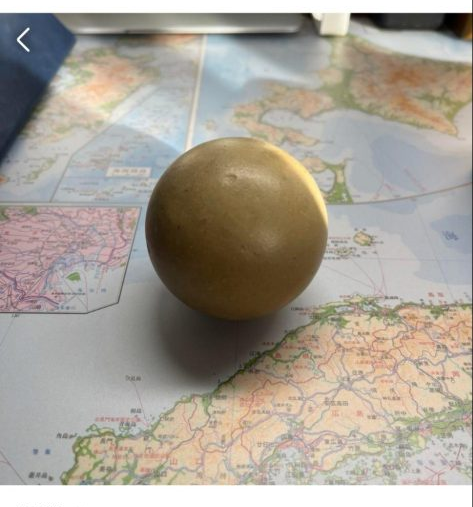
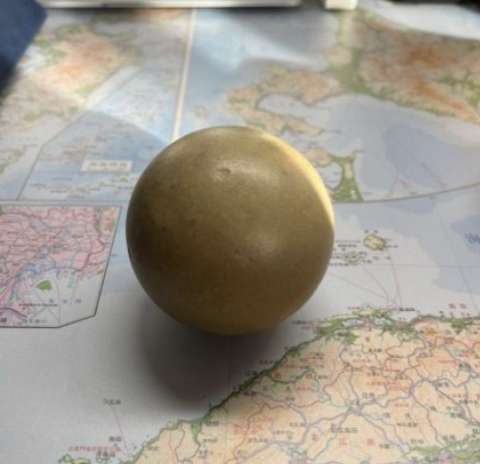
feat: 商品画面を実機メルカリUIに刷新
写真エリア（角丸＋余白・ズーム/枚数オーバーレイ・上部ヘッダーの戻る/メニュー）、
いいね/コメントの丸背景、値下げ依頼ピル、メルカード還元行、AIおまかせ交渉CTA、
翌月払い/購入への透明フローティングバー、iOSリキッドグラス風のボトムナビへ刷新。
出品アイコンは他のナビと同じフラット表示に統一し、商品画像も差し替え。

diff --git a/components/screens/ProductScreen.tsx b/components/screens/ProductScreen.tsx
@@ -1,87 +1,139 @@
 import Image from "next/image";
 import { StatusBar, BottomNav } from "../PhoneChrome";
-import { RobotIcon, Chevron } from "../icons";
+import { RobotIcon } from "../icons";
 
 interface Props {
   unread: number;
   onOpenBattle: () => void;
+  onOpenSearch: () => void;
   onBell: () => void;
   onMypage: () => void;
 }
 
-export function ProductScreen({ unread, onOpenBattle, onBell, onMypage }: Props) {
+export function ProductScreen({ unread, onOpenBattle, onOpenSearch, onBell, onMypage }: Props) {
   return (
     <div className="screen">
       <div className="content">
         <StatusBar />
 
-        <div className="photo-wrap">
-          <div className="back-btn">
+        <div className="pw-header">
+          <div className="pw-btn back" onClick={onOpenSearch}>
             <svg width="18" height="18" viewBox="0 0 24 24" fill="none">
               <path d="M15 5l-7 7 7 7" stroke="#222" strokeWidth="2.2" strokeLinecap="round" strokeLinejoin="round" />
             </svg>
           </div>
-          <Image src="/dorodango.png" alt="泥だんご" width={473} height={507} priority />
+          <div className="pw-btn menu">
+            <svg width="18" height="18" viewBox="0 0 24 24" fill="#222">
+              <circle cx="12" cy="5" r="1.9" />
+              <circle cx="12" cy="12" r="1.9" />
+              <circle cx="12" cy="19" r="1.9" />
+            </svg>
+          </div>
+        </div>
+
+        <div className="photo-wrap">
+          <div className="photo-inner">
+            <Image src="/dorodango.png" alt="泥だんご" width={473} height={507} priority />
+            <div className="pw-zoom">
+              <svg width="18" height="18" viewBox="0 0 24 24" fill="none">
+                <circle cx="10.5" cy="10.5" r="6.5" stroke="#fff" strokeWidth="1.8" />
+                <path d="M15.5 15.5L20 20" stroke="#fff" strokeWidth="1.8" strokeLinecap="round" />
+              </svg>
+            </div>
+            <div className="pw-count">
+              <svg width="12" height="12" viewBox="0 0 24 24" fill="#fff">
+                <rect x="3" y="3" width="7" height="7" rx="1.5" />
+                <rect x="14" y="3" width="7" height="7" rx="1.5" />
+                <rect x="3" y="14" width="7" height="7" rx="1.5" />
+                <rect x="14" y="14" width="7" height="7" rx="1.5" />
+              </svg>
+              1 / 7
+            </div>
+          </div>
         </div>
 
         <div className="info">
+          <div className="react-row">
+            <div className="react-item">
+              <span className="react-ic">
+                <svg width="20" height="20" viewBox="0 0 24 24" fill="none">
+                  <path
+                    d="M12 20s-7-4.4-9.5-9C.8 7.2 2.6 4 6 4c2 0 3.5 1.1 4.3 2.4 0 0 .5.9.7 1.3.2-.4.7-1.3.7-1.3C12.5 5.1 14 4 16 4c3.4 0 5.2 3.2 3.5 7-2.5 4.6-9.5 9-9.5 9z"
+                    stroke="#767676"
+                    strokeWidth="1.6"
+                  />
+                </svg>
+              </span>
+              <span className="react-n">1</span>
+            </div>
+            <div className="react-item">
+              <span className="react-ic">
+                <svg width="20" height="20" viewBox="0 0 24 24" fill="none">
+                  <path
+                    d="M21 11.5a8.4 8.4 0 01-8.9 8.5 9 9 0 01-3.6-.7L3 20l1.1-4A8.3 8.3 0 013.5 12 8.4 8.4 0 0112 3.5a8.5 8.5 0 019 8z"
+                    stroke="#767676"
+                    strokeWidth="1.6"
+                  />
+                </svg>
+              </span>
+              <span className="react-n">0</span>
+            </div>
+            <div className="react-spacer" />
+            <div className="pricedown-btn">
+              <svg width="17" height="17" viewBox="0 0 24 24" fill="none">
+                <circle cx="12" cy="12" r="9" stroke="#767676" strokeWidth="1.5" />
+                <path d="M9 8h6M9 11h6M12 8v8M9.5 13.5L12 16l2.5-2.5" stroke="#767676" strokeWidth="1.5" strokeLinecap="round" strokeLinejoin="round" />
+              </svg>
+              値下げ依頼
+            </div>
+          </div>
+
           <p className="p-title">泥だんご</p>
+          <div className="p-tags">ハンドメイド ・ ピカピカ仕上げ ・ 目立った傷や汚れなし</div>
+          <div className="p-time">
+            <svg width="13" height="13" viewBox="0 0 24 24" fill="none">
+              <circle cx="12" cy="12" r="9" stroke="#B0B0B0" strokeWidth="1.6" />
+              <path d="M12 7v5.5L15.5 15" stroke="#B0B0B0" strokeWidth="1.6" strokeLinecap="round" />
+            </svg>
+            3ヶ月前
+          </div>
+
           <div className="p-price-row">
             <span className="p-price">
               <sup>¥</sup>3,000
             </span>
             <span className="p-shipping">送料込み</span>
           </div>
-          <div className="installment">月々に分けてお支払いできます</div>
 
-          <div className="action-row">
-            <div className="item">
-              <svg width="17" height="17" viewBox="0 0 24 24" fill="none">
-                <path
-                  d="M12 20s-7-4.4-9.5-9C.8 7.2 2.6 4 6 4c2 0 3.5 1.1 4.3 2.4 0 0 .5.9.7 1.3.2-.4.7-1.3.7-1.3C12.5 5.1 14 4 16 4c3.4 0 5.2 3.2 3.5 7-2.5 4.6-9.5 9-9.5 9z"
-                  stroke="#767676"
-                  strokeWidth="1.6"
-                />
-              </svg>
-              いいね！
-            </div>
-            <div className="item">
-              <svg width="17" height="17" viewBox="0 0 24 24" fill="none">
-                <path
-                  d="M21 11.5a8.4 8.4 0 01-8.9 8.5 9 9 0 01-3.6-.7L3 20l1.1-4A8.3 8.3 0 013.5 12 8.4 8.4 0 0112 3.5a8.5 8.5 0 019 8z"
-                  stroke="#767676"
-                  strokeWidth="1.6"
-                />
-              </svg>
-              コメント
-            </div>
-            <div className="spacer" />
-            <svg width="17" height="17" viewBox="0 0 24 24" fill="#767676">
-              <circle cx="5" cy="12" r="1.8" />
-              <circle cx="12" cy="12" r="1.8" />
-              <circle cx="19" cy="12" r="1.8" />
+          <div className="mercard">
+            <svg width="17" height="12" viewBox="0 0 24 16" fill="none">
+              <rect x="1" y="1.5" width="22" height="13" rx="2.5" stroke="#0A7CFF" strokeWidth="1.5" />
+              <path d="M1 5.5h22" stroke="#0A7CFF" strokeWidth="1.5" />
             </svg>
-          </div>
-
-          <div className="coupon">
             <span>
-              お買いものクーポンがもらえます。エントリーするだけ。《12/25まで》
-              <br />
-              ※特定カテゴリー限定
+              メルカード利用で <b>1.9%</b> 還元
             </span>
-            <Chevron />
+            <span className="mercard-more">詳細</span>
           </div>
 
           <div className="ai-cta" onClick={onOpenBattle}>
             <RobotIcon />
-            <span>AIに値下げ交渉してもらう</span>
+            <span>AIにおまかせで値下げ交渉</span>
           </div>
 
-          <div className="buy-row">
-            <div className="btn btn-outline">分けて支払う</div>
-            <div className="btn btn-fill">購入手続きへ</div>
+          <div className="p-desc">
+            <div className="p-desc-h">商品の説明</div>
+            <p className="p-desc-b">
+              手のひらサイズの泥だんごです。時間をかけてピカピカに磨き上げました。
+              目立った傷や汚れはありませんが、あくまで手づくり品のため神経質な方はご遠慮ください。
+            </p>
           </div>
         </div>
+      </div>
+
+      <div className="buy-bar">
+        <div className="btn btn-outline">翌月払い</div>
+        <div className="btn btn-fill">購入へ</div>
       </div>
 
       <BottomNav active="home" unread={unread} onBell={onBell} onMypage={onMypage} />

diff --git a/components/PhoneChrome.tsx b/components/PhoneChrome.tsx
@@ -1,4 +1,4 @@
-import { StatusIcons, NavIcons, CameraIcon } from "./icons";
+import { StatusIcons, NavIcons } from "./icons";
 
 export function StatusBar() {
   return (
@@ -28,10 +28,8 @@ export function BottomNav({ active, unread, onBell, onMypage }: BottomNavProps) 
         {unread > 0 && <span className="nav-badge">{unread}</span>}
         <span>お知らせ</span>
       </div>
-      <div className="nav-item camera">
-        <div className="circle">
-          <CameraIcon />
-        </div>
+      <div className="nav-item">
+        {NavIcons.sell(false)}
         <span>出品</span>
       </div>
       <div className="nav-item">

diff --git a/components/icons.tsx b/components/icons.tsx
@@ -69,6 +69,12 @@ export const NavIcons: Record<string, (active: boolean) => JSX.Element> = {
       <path d="M5 20c1-3.5 4-5.5 7-5.5s6 2 7 5.5" stroke={c(a)} strokeWidth="1.7" strokeLinecap="round" />
     </svg>
   ),
+  sell: (a) => (
+    <svg width="20" height="20" viewBox="0 0 24 24" fill="none">
+      <path d="M4 8h3l1.5-2h7L17 8h3v11H4z" stroke={c(a)} strokeWidth="1.7" strokeLinejoin="round" />
+      <circle cx="12" cy="13.5" r="3" stroke={c(a)} strokeWidth="1.7" />
+    </svg>
+  ),
 };
 
 export const CameraIcon = () => (
